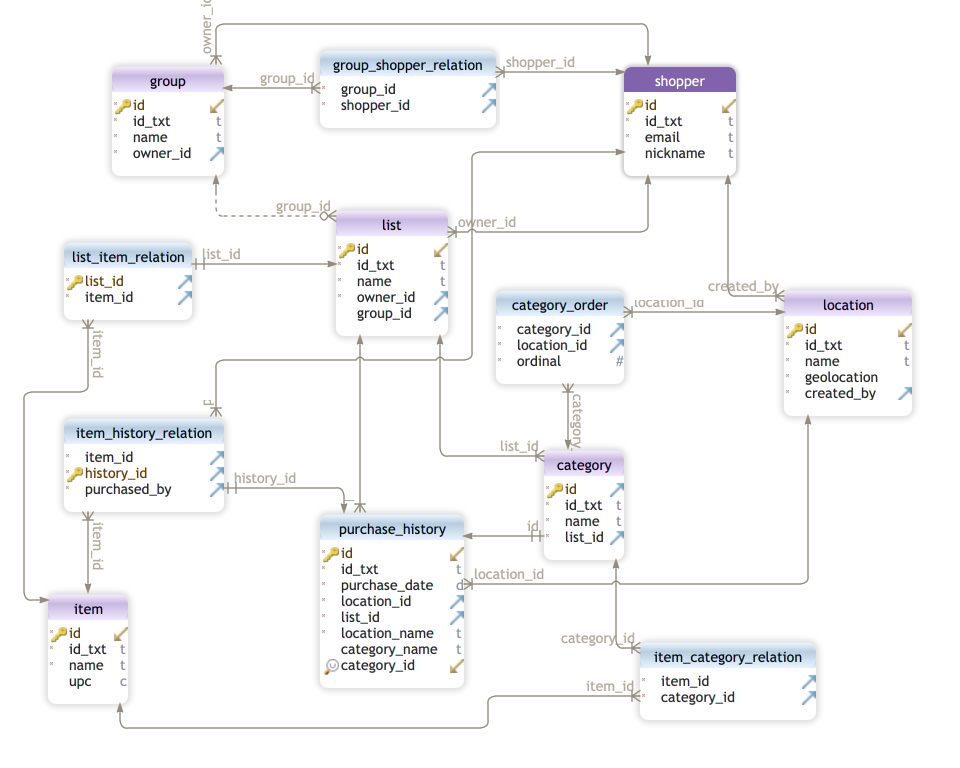
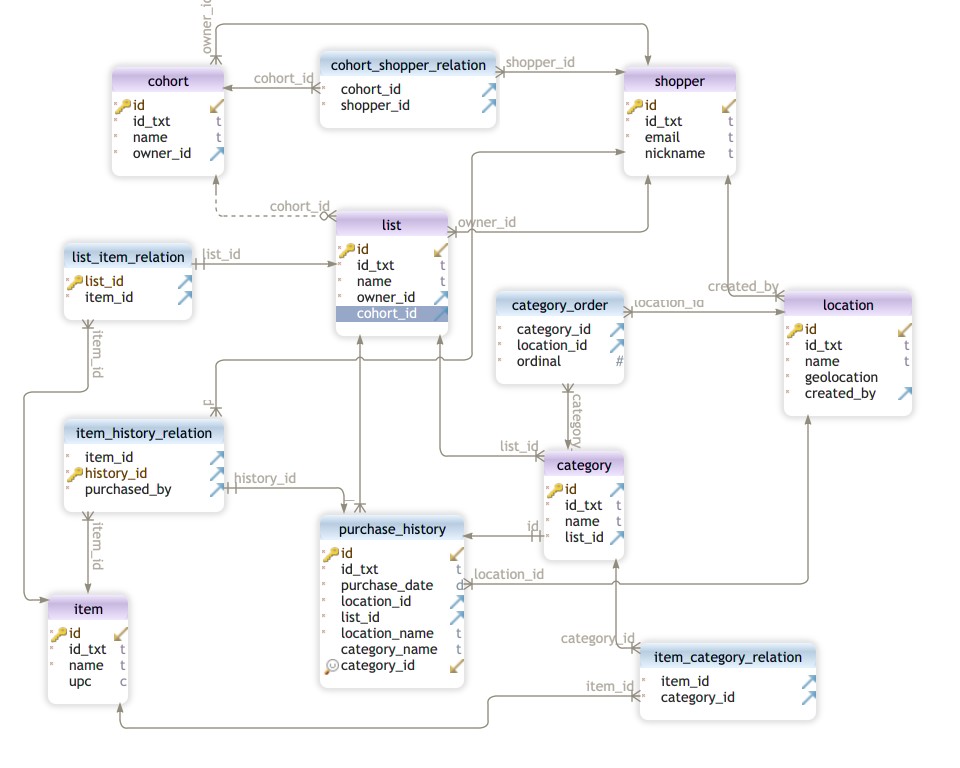
renamed db table from GROUP to COHORT to avoid reserved words limitation with MySQL

diff --git a/src/v1/groups/group.ts b/src/v1/groups/group.ts
@@ -7,7 +7,7 @@ export type GroupMembers = Array<string>;
  * A Group is a user generated collection of Shoppers.
  */
 export type Group = {
-    /** UUID representation of the groups's ID */
+    /** UUID representation of the group's ID */
     id: string;
     /** The name of the group */
     name: string;
